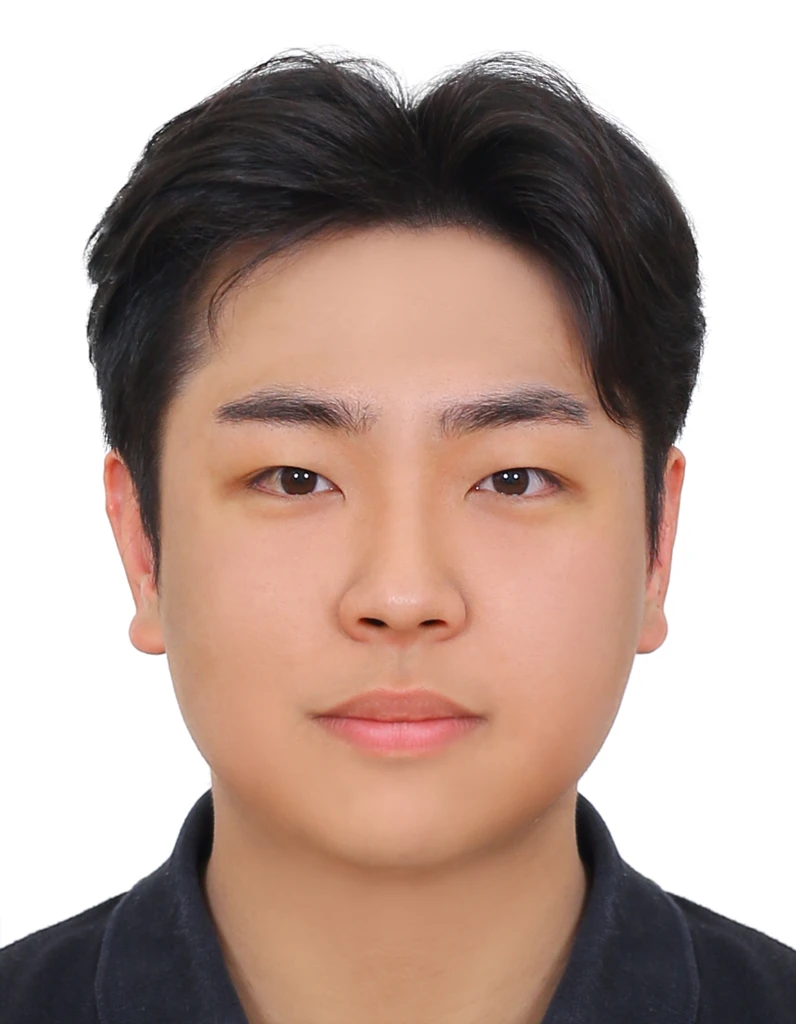
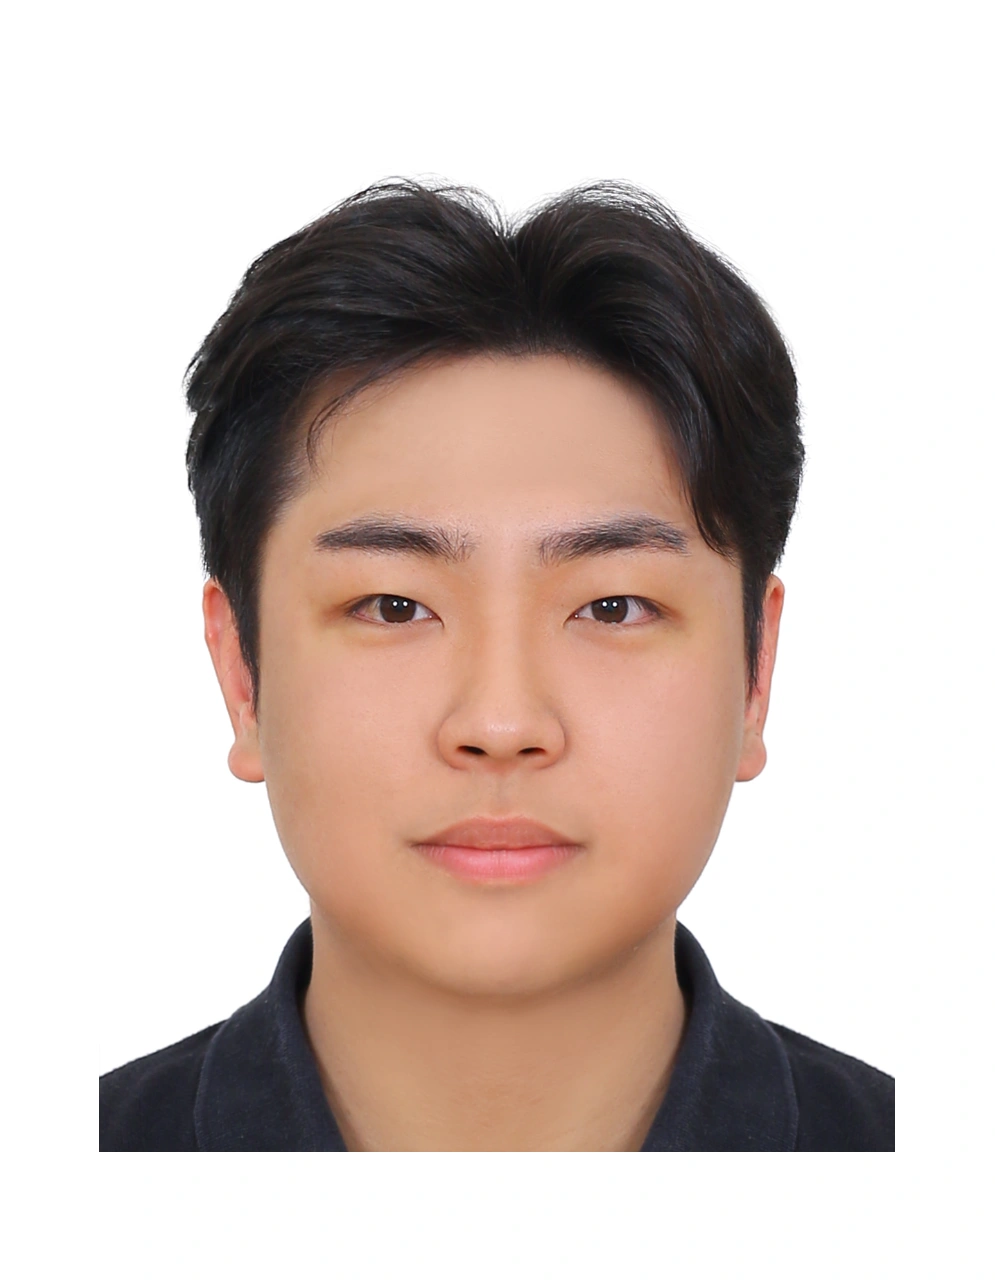
fix: resolve cropped edge issue by organically padding image

diff --git a/zenith-web/src/data/team.ts b/zenith-web/src/data/team.ts
@@ -133,10 +133,7 @@ export const getTeamMembers = () => {
             nameKo: "신한륭",
             team: "Advisor",
             role: "Software Architecture Advisor",
-            image: "/assets/team/hanryung_shin.webp",
-            imageScale: 0.85,
-            imagePosition: "center 40%",
-            imageBgColor: "bg-white"
+            image: "/assets/team/hanryung_shin.webp"
         },
         {
             nameEn: "Be Our Crew!",

diff --git a/zenith-web/pad_image.py b/zenith-web/pad_image.py
@@ -1,0 +1,29 @@
+import os
+from PIL import Image
+
+src = r"c:\Users\dbsrn\.gemini\antigravity\brain\a14185f2-f42b-464b-ab5e-96c15903d6ab\media__1774839057933.png"
+dest = r"c:\Zenith\zenith-web\public\assets\team\hanryung_shin.webp"
+
+try:
+    img = Image.open(src).convert("RGBA")
+    
+    # Increase the canvas size by 25% to act as white margins
+    pad_factor = 1.25
+    new_w = int(img.width * pad_factor)
+    new_h = int(img.height * pad_factor)
+    
+    # Create a white background canvas
+    bg = Image.new("RGBA", (new_w, new_h), (255, 255, 255, 255))
+    
+    # Calculate centering offsets
+    offset_x = (new_w - img.width) // 2
+    offset_y = (new_h - img.height) // 2
+    
+    # Paste the original image in the center
+    bg.paste(img, (offset_x, offset_y), img)
+    
+    os.makedirs(os.path.dirname(dest), exist_ok=True)
+    bg.convert("RGB").save(dest, 'WEBP', quality=95)
+    print(f"Saved padded image to: {dest}")
+except Exception as e:
+    print(f"Error: {e}")
